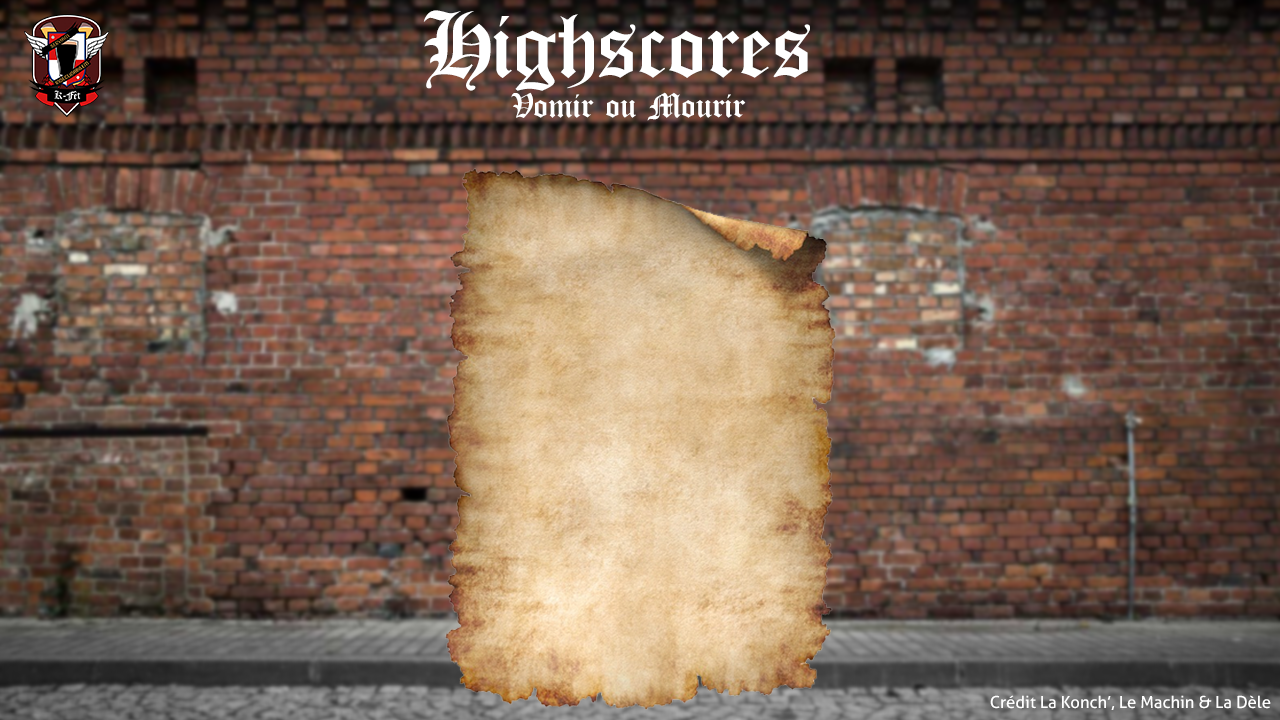
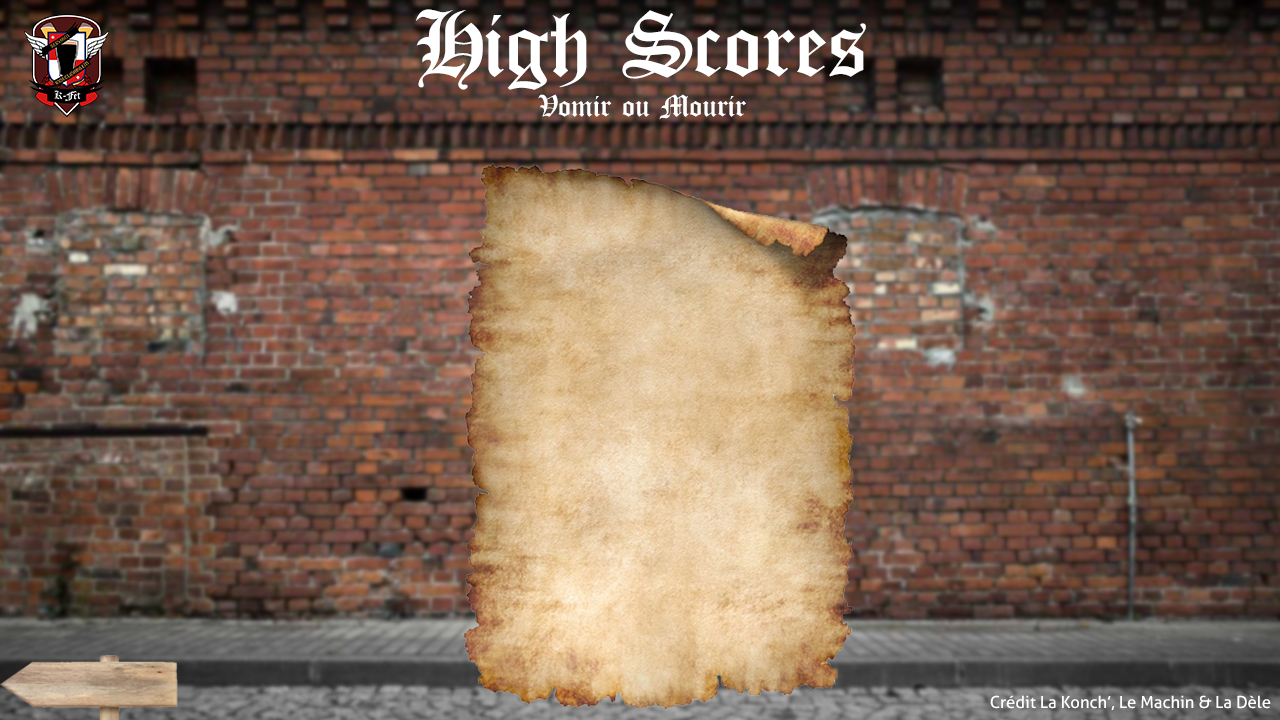
Finish

diff --git a/Game.py b/Game.py
@@ -58,26 +58,13 @@ class Game(arcade.Window):
     self.game_over = False
     self.game_over_isHighscore=False
     self.menu = True
-    self.highscore = False
+    self.highscores = False
 
-    # Statics graphics elements organisation 
-    self.line_break=screen_height/5
-
-    self.mainMenu = Menu(MAIN_MENU[0], generateValuesMainMenu, self.screen_width, self.screen_height)
-    # self.play_position_x=self.screen_width / 2
-    # self.play_position_y=(3/4)*self.screen_height
-    # self.play_height=self.screen_height/14
-    # self.play_width=int(4*0.4*self.play_height) #Nb_lettre*largeur_lettre
-
-    # self.menu_highscore_position_x=self.screen_width / 2
-    # self.menu_highscore_position_y=(3/4)*self.screen_height - self.play_height - self.line_break
-    # self.menu_highscore_height=self.screen_height/14
-    # self.menu_highscore_width=int(10*0.4*self.menu_highscore_height)
-
-    # self.quit_position_x=self.screen_width / 2
-    # self.quit_position_y=(3/4)*self.screen_height - self.play_height - self.menu_highscore_height - 2*self.line_break
-    # self.quit_height=self.screen_height/14
-    # self.quit_width=int(4*0.4*self.quit_height)
+    # Menu creation
+    self.main_menu = Menu(MAIN_MENU[0], MAIN_MENU[1], self.screen_width, self.screen_height)
+    self.high_scores_menu = Menu(HIGHSCORES_MENU[0], HIGHSCORES_MENU[1], self.screen_width, self.screen_height)
+    self.high_score_menu = Menu(HIGHSCORE_MENU[0], HIGHSCORE_MENU[1], self.screen_width, self.screen_height)
+    self.game_over_menu = Menu(GAME_OVER_MENU[0], GAME_OVER_MENU[1], self.screen_width, self.screen_height)
 
     self.game_over_position_x=self.screen_width / 2
     self.game_over_height=self.screen_height/10
@@ -97,11 +84,6 @@ class Game(arcade.Window):
     self.restart_position_y=(self.screen_height / 2) - self.game_over_height
     self.restart_height=self.screen_height/20
     self.restart_width=int(10*0.4*self.restart_height)
-
-    self.highscore_position_x=self.screen_width / 2
-    self.highscore_position_y=self.screen_height - self.line_break/4
-    self.highscore_height=54
-    self.highscore_width=int(10*0.4*self.highscore_height)
     
     # Background image will be stored in this variable
     self.background = None
@@ -152,56 +134,44 @@ class Game(arcade.Window):
 
     # GameOver display
     if self.game_over :
-       
+
       score=self.score*self.total_time
 
-      output = "Click to restart"
-      arcade.draw_text(output, self.restart_position_x, self.restart_position_y, arcade.color.WHITE, self.restart_height, align="center",anchor_x="center",anchor_y="center")
-
-      output = "menu"
-      arcade.draw_text(output,self.backmenu_position_x, self.backmenu_position_y, arcade.color.WHITE, self.backmenu_height,align="center",anchor_x="center",anchor_y="center")
-
-      output = "high score"
-      arcade.draw_text(output,self.backhighscore_position_x, self.backhighscore_position_y, arcade.color.WHITE, self.backhighscore_height,align="center",anchor_x="center",anchor_y="center")
       # Game over with highscore display
-      if self.game_over_isHighscore :
-        output=f"Highscore ! - Score : {int(self.score)}"
-        arcade.draw_text(output, self.game_over_position_x, self.game_over_position_y, arcade.color.WHITE, self.game_over_height, align="center",anchor_x="center",anchor_y="center")
-      
+      if self.game_over_isHighscore:
+        output_position = "0" # TODO Implement position
+        self.high_score_menu.addItem(POSITION_ITEM[0], POSITION_ITEM[1],POSITION_ITEM[2], output_position, POSITION_ITEM[4], POSITION_ITEM[5])
+        output_score = f"{int(self.score)}"
+        self.high_score_menu.addItem(SCORE_ITEM[0], SCORE_ITEM[1],SCORE_ITEM[2], output_score, SCORE_ITEM[4], SCORE_ITEM[5])
+        self.high_score_menu.draw()
+
       # Game over witout highscore display
       else :
-        output = f"Game Over - Score : {int(self.score)}"
-        arcade.draw_text(output, self.game_over_position_x, self.game_over_position_y, arcade.color.WHITE, self.game_over_height, align="center",anchor_x="center",anchor_y="center")
-
+        output_score = f"{int(self.score)}"
+        self.game_over_menu.addItem(SCORE_GAME_OVER_ITEM[0], SCORE_GAME_OVER_ITEM[1],SCORE_GAME_OVER_ITEM[2],
+          output_score, SCORE_GAME_OVER_ITEM[4], SCORE_GAME_OVER_ITEM[5])
+        self.game_over_menu.draw()
+      
 
     # Menu display
     elif (self.menu):
-      
-      # Background
-      self.background = arcade.load_texture("img/menu/main_menu.png")
-      arcade.draw_texture_rectangle(self.screen_width // 2, self.screen_height // 2,
-                                      self.screen_width, self.screen_height, self.background)
-
       # Draw menu with specific values
-      self.mainMenu.draw(self.mainMenu.generateValue())
+      self.main_menu.draw()
 
     # Highscore display
-    elif (self.highscore):
-      output = "High Score"
-      arcade.draw_text(output, self.highscore_position_x, self.highscore_position_y,arcade.color.WHITE, self.highscore_height,align="center",anchor_x="center",anchor_y="center")
+    elif (self.highscores):
+      # TODO: need to be improve because we parse highscore file in every draw() call ... Git blame JP :)
       list_highscore=take_scores()
       rank=1
-      
       sorted_highscore=sorted(list_highscore.items(),key=operator.itemgetter(1),reverse=True)
-
       for pair in sorted_highscore :
         keys=re.sub('@','',pair[0])
         output=str(rank)+ " : " + keys + "  "+ str(pair[1])# + keys 
-        arcade.draw_text(output, self.highscore_position_x, self.highscore_position_y - self.highscore_height*rank - self.line_break*(rank+2)/15,arcade.color.WHITE,align="center",anchor_x="center",anchor_y="center")
+        self.high_scores_menu.addItem(INITIAL_HIGHSCORES[0], INITIAL_HIGHSCORES[1] - rank * (INITIAL_HIGHSCORES[2] + 10) / self.screen_height, 
+          INITIAL_HIGHSCORES[2], output, INITIAL_HIGHSCORES[4], INITIAL_HIGHSCORES[5])
         rank+=1
 
-      output = "menu"
-      arcade.draw_text(output,self.backmenu_position_x, self.backmenu_position_y, arcade.color.WHITE, self.backmenu_height,align="center",anchor_x="center",anchor_y="center")
+      self.high_scores_menu.draw()
 
     # Game display
     else:
@@ -229,7 +199,7 @@ class Game(arcade.Window):
 
   def update(self, delta_time):
     # During the game
-    if (self.game_over == False and self.menu==False and self.highscore==False):
+    if (self.game_over == False and self.menu==False and self.highscores==False):
       
       # Current time update
       self.total_time+=delta_time
@@ -373,7 +343,7 @@ class Game(arcade.Window):
 
   # Result of all key pressed possibility
   def on_key_press(self, key, modifiers):
-    if(self.game_over==False, self.menu==False, self.highscore==False):
+    if(self.game_over==False, self.menu==False, self.highscores==False):
       if(self.player.can_move):
         if key == arcade.key.UP:
           self.player.change_y = MOVEMENT_SPEED
@@ -387,7 +357,7 @@ class Game(arcade.Window):
 
   # Result of all key released possibility
   def on_key_release(self, key, modifiers):
-    if(self.game_over==False, self.menu==False, self.highscore==False):
+    if(self.game_over==False, self.menu==False, self.highscores==False):
       if key == arcade.key.UP or key == arcade.key.DOWN:
         self.player.change_y = 0
       if key == arcade.key.LEFT or key == arcade.key.RIGHT:
@@ -415,34 +385,51 @@ class Game(arcade.Window):
     
     # During GameOver display 
     if self.game_over :
-      if x < self.restart_position_x + self.restart_width and x > self.restart_position_x - self.restart_width and y < self.restart_position_y + self.restart_height and y > self.restart_position_y - self.restart_height :
-        self.setup()
-        self.game_over=False
-      elif x < self.backmenu_position_x + self.backmenu_width and x > self.backmenu_position_x - self.backmenu_width and y < self.backmenu_position_y + self.backmenu_height and y > self.backmenu_position_y - self.backmenu_height :
-         self.game_over=False
-         self.menu=True
-      elif x < self.backhighscore_position_x + self.backhighscore_width and x > self.backhighscore_position_x - self.backhighscore_width and y < self.backhighscore_position_y + self.backhighscore_height and y > self.backhighscore_position_y - self.backhighscore_height :
-         self.game_over=False
-         self.highscore=True
+      if self.game_over_isHighscore:
+        for item in self.high_score_menu.items:
+          if item.clickable and item.handleClick(x,y):
+            if item.text == "Rejouer":
+              self.setup()
+              self.game_over = False
+            elif item.text == "Highscores":
+              self.game_over = False
+              self.highscores = True
+            elif item.text == "Menu":
+              self.game_over=False
+              self.menu=True
+      else:
+        for item in self.game_over_menu.items:
+          if item.clickable and item.handleClick(x,y):
+            if item.text == "Rejouer":
+              self.setup()
+              self.game_over = False
+            elif item.text == "Highscores":
+              self.game_over = False
+              self.highscores = True
+            elif item.text == "Menu":
+              self.game_over=False
+              self.menu=True
     
     # During menu display 
     elif self.menu:
-      for item in self.mainMenu.items:
+      for item in self.main_menu.items:
         if item.clickable and item.handleClick(x,y):
           if item.text == "Jouer":
             self.setup()
             self.menu=False
           elif item.text == "Highscores":
             self.menu=False
-            self.highscore=True
+            self.highscores=True
           elif item.text == "Quitter":
             arcade.quick_run(0.5)
     
-    # During highscore display 
-    elif self.highscore :
-      if x < self.backmenu_position_x + self.backmenu_width and x > self.backmenu_position_x - self.backmenu_width and y < self.backmenu_position_y + self.backmenu_height and y > self.backmenu_position_y - self.backmenu_height :
-        self.highscore=False
-        self.menu=True
+    # During highscore display
+    elif self.highscores:
+      for item in self.high_scores_menu.items:
+        if item.clickable and item.handleClick(x,y):
+          if item.text == "Menu":
+            self.highscores=False
+            self.menu=True
     
   def kill_properly(self, sprite, newSprite):
     for physics_engine in self.physic_engines_list:

diff --git a/menus_items.py b/menus_items.py
@@ -1,20 +1,50 @@
 # -------------- MENU DATA --------------
 
+## Item
 # An item is an array representing the values of the static_item class constructor
-# As a result this array follows this syntax: [x_proportion: float, y_proportion: float, text: string, color: string]
-# 
-# To implement a new color, please refere to the static_item.getArcadeColor()
+# An item must match: [x_proportion, y_proportion, fontSize, text, color, clickable]
+# Please see the static_item constructor if you want more information.
+# To implement a new color, please refere to the static_item.getArcadeColor() method
+#
+## Menu
+# A menu is composed by an array of item and a backgrounUrl
 
-# MAIN MENU
+#########   MAIN MENU   #########
 MAIN_MENU_ITEM_FONT_SIZE = 36
 
-PLAY_ITEM = [1/2,49/72,MAIN_MENU_ITEM_FONT_SIZE,"Jouer","white",True]
-HIGHSCORE_ITEM = [1/2,31/72,MAIN_MENU_ITEM_FONT_SIZE,"Highscores","white",True]
-QUIT_ITEM = [1/2,13/72,MAIN_MENU_ITEM_FONT_SIZE,"Quitter","white",True]
+PLAY_ITEM = [1/2,49/72,MAIN_MENU_ITEM_FONT_SIZE,"Jouer","black",True]
+HIGHSCORE_ITEM = [1/2,31/72,MAIN_MENU_ITEM_FONT_SIZE,"Highscores","black",True]
+QUIT_ITEM = [1/2,13/72,MAIN_MENU_ITEM_FONT_SIZE,"Quitter","black",True]
 
 MAIN_MENU = [
-  [PLAY_ITEM, HIGHSCORE_ITEM, QUIT_ITEM]
+  [PLAY_ITEM, HIGHSCORE_ITEM, QUIT_ITEM],
+  "img/menu/main_menu.png"
 ]
 
-def generateValuesMainMenu():
-  return ['','','']
+#########   HIGHSCORES  #########
+MENU_ITEM = [10/128,40/720,24,"Menu","black",True]
+INITIAL_HIGHSCORES = [1/2,47/72,24,"USELESS_HERE","black",False]
+
+HIGHSCORES_MENU = [
+  [MENU_ITEM],
+  "img/menu/highscores.png"
+]
+
+#########   HIGHSCORE  #########
+RESTART_ITEM = [116/128,70/720,24,"Rejouer","black",True]
+HIGHSCORES_ITEM = [68/128,40/720,24,"Highscores","black",True]
+SCORE_ITEM = [81/128,255/720,24,"USELESS_HERE","black",True]
+POSITION_ITEM = [81/128,320/720,24,"USELESS_HERE","black",True]
+
+HIGHSCORE_MENU = [
+  [MENU_ITEM, RESTART_ITEM, HIGHSCORES_ITEM],
+  "img/menu/highscore.png"
+]
+
+#########   GAME OVER  #########
+SCORE_GAME_OVER_ITEM = [81/128,300/720,24,"USELESS_HERE","black",True]
+
+GAME_OVER_MENU = [
+  [MENU_ITEM, RESTART_ITEM, HIGHSCORES_ITEM],
+  "img/menu/game_over.png"
+]

diff --git a/static_item.py b/static_item.py
@@ -2,9 +2,11 @@ import arcade
 
 class StaticItem:
   # This class represent responsive menu item. It works with proportion instead of real position.
-  # 0 < x_proportion < 1
-  # 0 < y_proportion < 1
-  # color could be 'white'
+  # x_proportion: 0 < x_proportion < 1
+  # y_proportion: 0 < y_proportion < 1
+  # text: the text of this item
+  # color: a string representing a color. It must be implemented in the getArcadeColor() method !
+  # clickable: define if this item is clickable
   def __init__(self, x_proportion, y_proportion, fontSize, text, color, clickable, screen_width, screen_heigth):
     self.x = x_proportion * screen_width
     self.y = y_proportion * screen_heigth
@@ -17,13 +19,15 @@ class StaticItem:
     self.height = self.fontSize
     self.width = 0.4 * self.fontSize * len(text)
 
-  def draw(self, value):
-    output = f"{self.text + value}"
+  def draw(self):
+    output = f"{self.text}"
     arcade.draw_text(output,self.x,self.y,self.color,self.fontSize,align="center",anchor_x="center",anchor_y="center")
 
   def getArcadeColor(self, color):
     if color == "white":
       return arcade.color.WHITE
+    if color == "black":
+      return arcade.color.BLACK
   
   def handleClick(self, x: int, y: int) -> bool:
     if x < self.x + self.width and x > self.x - self.width and y < self.y + self.height and y > self.y - self.height:

diff --git a/menu.py b/menu.py
@@ -2,13 +2,24 @@ import arcade
 from static_item import * 
 
 class Menu:
-  def __init__(self, items, generateValue, screen_width, screen_heigth):
-    self.generateValue = generateValue
+  def __init__(self, items, backgroundUrl, screen_width, screen_height):
     self.items = []
+    self.background = arcade.load_texture(backgroundUrl)
+
+    self.screen_width = screen_width
+    self.screen_height = screen_height
 
     for item in items:
-      self.items.append(StaticItem(item[0],item[1],item[2],item[3],item[4],item[5],screen_width,screen_heigth))
+      self.items.append(StaticItem(item[0],item[1],item[2],item[3],item[4],item[5],screen_width,screen_height))
 
-  def draw(self, menuValue):
+  def draw(self):
+    # Background
+    arcade.draw_texture_rectangle(self.screen_width // 2, self.screen_height // 2,
+      self.screen_width, self.screen_height, self.background)
+
+    # Menu items
     for index, item in  enumerate(self.items):
-      item.draw(menuValue[index])
+      item.draw()
+  
+  def addItem(self, x_proportion, y_proportion, fontSize, text, color, clickable):
+    self.items.append(StaticItem(x_proportion, y_proportion, fontSize, text, color, clickable,self.screen_width,self.screen_height))
